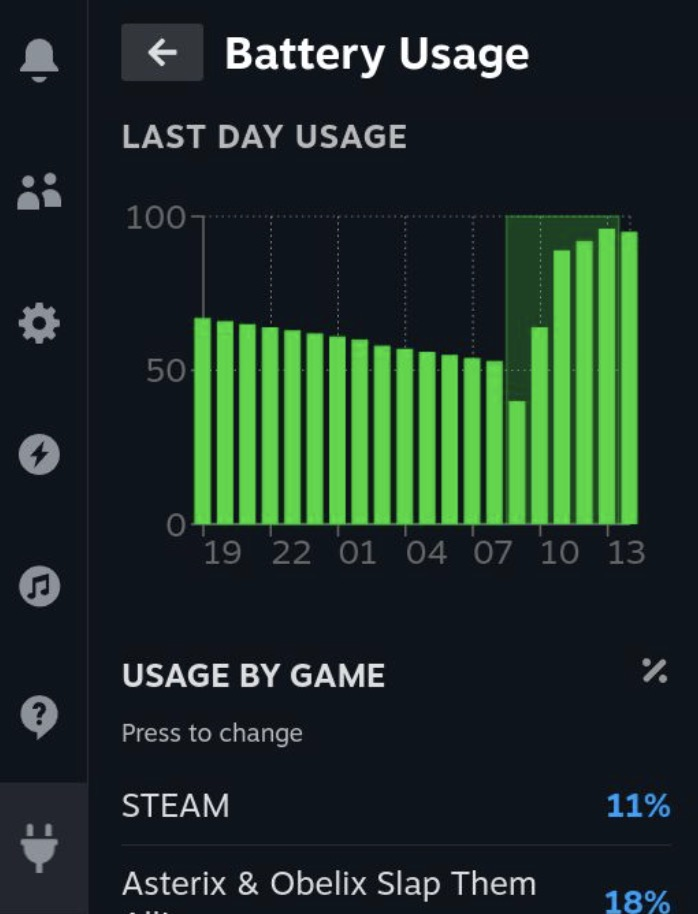
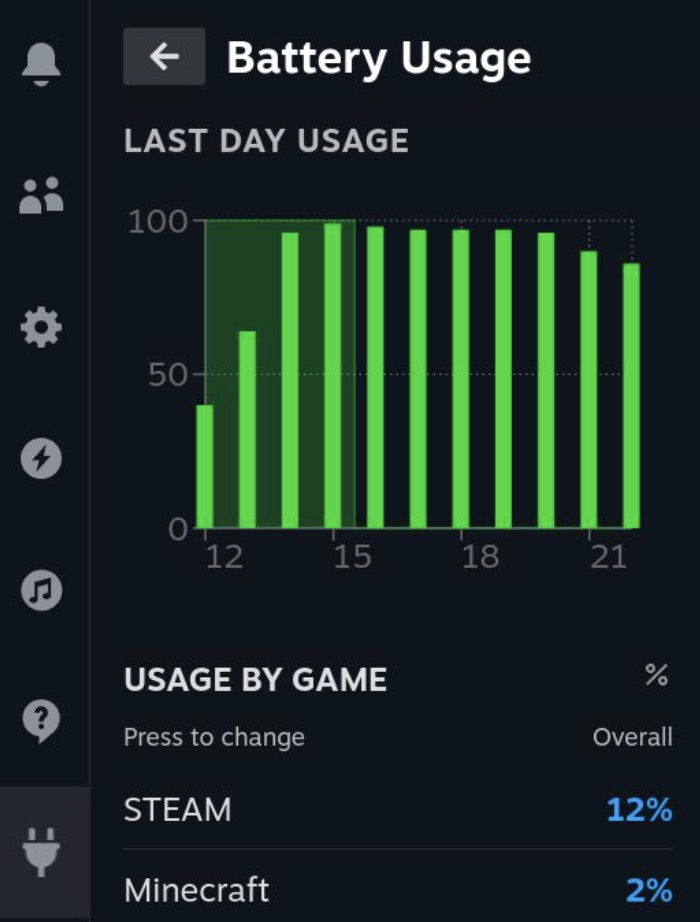
feat: replace hours with avg watts

diff --git a/src/containers/DailyUsageGraph.tsx b/src/containers/DailyUsageGraph.tsx
@@ -7,9 +7,10 @@ import {
   ServerAPI,
   Spinner,
 } from "decky-frontend-lib";
-import { BLUE_COLOR } from "../styles";
-import { FaHourglassHalf, FaInfoCircle, FaPercentage } from "react-icons/fa";
+import { BLUE_COLOR, unstyled_p } from "../styles";
+import { MdElectricBolt, MdPercent } from "react-icons/md";
 import { VerticalContainer } from "../components/VerticalContainer";
+import { HorizontalContainer } from "../components/HorizontalContainer";
 
 type Props = {
   serverApi: ServerAPI;
@@ -19,12 +20,11 @@ export const DailyUsageGraph = ({ serverApi }: Props) => {
   const [data, setData] = useState<{
     battery_usage: { hour: string; capacity: number; charging: number }[];
     games_stats: {
-      games: { game_name: string; percentage: number; hours: string }[];
-      suspended: { percentage: number; hours: string };
+      games: { game_name: string; percentage: number; watts: number }[];
     };
   }>();
   const [loading, setLoading] = useState(true);
-  const [showHours, setShowHours] = useState(false);
+  const [showWatts, setShowWatts] = useState(false);
 
   useEffect(() => {
     // console.log("mount get data");
@@ -35,8 +35,7 @@ export const DailyUsageGraph = ({ serverApi }: Props) => {
         {
           battery_usage: { hour: string; capacity: number; charging: number }[];
           games_stats: {
-            games: { game_name: string; percentage: number; hours: string }[];
-            suspended: { percentage: number; hours: string };
+            games: { game_name: string; percentage: number; watts: number }[];
           };
         }
       >("hourly_statistics", {});
@@ -82,13 +81,20 @@ export const DailyUsageGraph = ({ serverApi }: Props) => {
             <PanelSectionRow>
               <Field
                 bottomSeparator="none"
-                description="Press to change"
+                description={
+                  <HorizontalContainer>
+                    <p style={unstyled_p}>Press to change</p>
+                    <p style={unstyled_p}>
+                      {showWatts ? "Average" : "Overall"}
+                    </p>
+                  </HorizontalContainer>
+                }
                 label={<div style={{ fontWeight: 600 }}>USAGE BY GAME</div>}
                 onClick={() => {
-                  setShowHours(!showHours);
+                  setShowWatts(!showWatts);
                 }}
               >
-                {showHours ? <FaHourglassHalf /> : <FaPercentage />}
+                {showWatts ? <MdElectricBolt /> : <MdPercent />}
               </Field>
             </PanelSectionRow>
             {data.games_stats.games.map((item) => (
@@ -97,34 +103,36 @@ export const DailyUsageGraph = ({ serverApi }: Props) => {
                   label={item.game_name}
                   inlineWrap="keep-inline"
                   onClick={() => {
-                    setShowHours(!showHours);
+                    setShowWatts(!showWatts);
                   }}
                 >
-                  <div style={{ fontWeight: 600, color: BLUE_COLOR }}>
-                    {showHours ? item.hours : item.percentage + "%"}
-                  </div>
+                  <p
+                    style={{
+                      ...unstyled_p,
+                      fontWeight: 600,
+                      color: BLUE_COLOR,
+                    }}
+                  >
+                    {showWatts ? (
+                      <>
+                        {"~" + item.watts}
+                        <span
+                          style={{ fontSize: "10px", verticalAlign: "top" }}
+                        >
+                          W
+                        </span>
+                      </>
+                    ) : (
+                      item.percentage + "%"
+                    )}
+                  </p>
                 </Field>
               </PanelSectionRow>
             ))}
-            {showHours && (
-              <div style={{ fontWeight: 600 }}>
-                <PanelSectionRow>
-                  <Field
-                    inlineWrap="keep-inline"
-                    label="SUSPENDED"
-                    onClick={() => {
-                      setShowHours(!showHours);
-                    }}
-                  >
-                    {data.games_stats.suspended.hours}
-                  </Field>
-                </PanelSectionRow>
-              </div>
-            )}
-            {!showHours && data.games_stats.games.length === 0 && (
+            {!showWatts && data.games_stats.games.length === 0 && (
               <VerticalContainer>
                 <div style={{ fontSize: "14px", textAlign: "center" }}>
-                  NO GAMES PLAYED ON BATTERY
+                  NO BATTERY USAGE DETECTED
                 </div>
               </VerticalContainer>
             )}

diff --git a/src/styles.tsx b/src/styles.tsx
@@ -22,7 +22,13 @@ export const HorizontalContainerCSS = {
     display: "flex",
     flexDirection: "row",
     justifyContent: "space-between",
+    alignItems: "center",
   } as CSSProperties,
+};
+
+export const unstyled_p: CSSProperties = {
+  margin: 0,
+  padding: 0,
 };
 
 export const focus_panel_no_padding: CSSProperties = {

diff --git a/defaults/python/statistics.py b/defaults/python/statistics.py
@@ -1,13 +1,12 @@
 from dataclasses import dataclass
 from datetime import datetime, timedelta
+from math import floor
 from python.db.dao import Dao
 from typing import List
 from collections import defaultdict
 
 from python.helpers import (
-    calculate_adjusted_percentages,
     insert_element,
-    minutes_to_hours_string,
 )
 
 
@@ -21,13 +20,13 @@ class UsageItem:
 class GameItem:
     game_name: str
     percentage: int
-    hours: str
+    watts: float
 
 
 @dataclass
 class Suspended:
     percentage: int
-    hours: str
+    watts: float
 
 
 @dataclass
@@ -100,20 +99,32 @@ class Statistics:
                             entry.capacity
                         )
                         games_pecentages[entry.game_name]["last_pos"] = i
+
+                        games_pecentages[entry.game_name]["amount"] += 1
+
+                        games_pecentages[entry.game_name]["total_power"] += entry.power
                 else:
                     games_pecentages[entry.game_name] = {
                         "last_charge": entry.capacity,
                         "total_charge": 0,
                         "last_pos": i,
+                        "amount": 0,
+                        "total_power": 0,
                     }
 
             data_by_hour[hour].append(entry)
 
         aggregated_data = []
+        print(games_pecentages)
+
         for hour, entries in data_by_hour.items():
             last_entry = min(entries, key=lambda x: x.capacity)
             aggregated_data.append(
-                {"hour": hour, "capacity": last_entry.capacity, "charging": 0}
+                {
+                    "hour": hour,
+                    "capacity": last_entry.capacity,
+                    "charging": 0,
+                }
             )
         i = 0
 
@@ -170,92 +181,23 @@ class Statistics:
             if aggregated_data[-2]["capacity"] < aggregated_data[-1]["capacity"]:
                 aggregated_data[-1]["charging"] = 100
 
-        game_entry_count = defaultdict(int)
+        games_list = []
+        for item in games_pecentages:
+            if games_pecentages[item]["total_charge"] > 0:
+                watts = (games_pecentages[item]["total_power"] / 10) / games_pecentages[
+                    item
+                ]["amount"]
 
-        # Step 2: Convert date_time to datetime objects
-        formatted_data = [
-            (datetime.strptime(entry.date_time, "%Y-%m-%d %H %M"), entry.game_name)
-            for entry in data
-        ]
-
-        # print(formatted_data)
-
-        filled_data = []
-
-        start_time = min(dt for dt, _ in formatted_data)
-        end_time = max(dt for dt, _ in formatted_data)
-
-        current_time = start_time
-        formatted_data_dict = dict(
-            formatted_data
-        )  # Convert list to dictionary for easy lookup
-
-        while current_time <= end_time:
-            if current_time in formatted_data_dict:
-                filled_data.append(
-                    {
-                        "date_time": current_time.strftime("%Y-%m-%d %H %M"),
-                        "game_name": formatted_data_dict[current_time],
-                    }
-                )
-            else:
-                filled_data.append(
-                    {
-                        "date_time": current_time.strftime("%Y-%m-%d %H %M"),
-                        "game_name": "SUSPENDED",
-                    }
-                )
-            current_time += timedelta(minutes=1)
-
-        for entry in filled_data:
-            game_entry_count[entry["game_name"]] += 1
-
-        total_entries = len(filled_data)
-
-        if total_entries > 0:
-            game_entry_percentage = {
-                game: (count / total_entries) * 100
-                for game, count in game_entry_count.items()
-            }
-
-            # Drop insignificant values
-            threshold = sum(game_entry_percentage.values()) / 100
-
-            game_entry_percentage = {
-                key: value
-                for key, value in game_entry_percentage.items()
-                if value >= threshold
-            }
-
-            game_entry_count = {
-                key: value
-                for key, value in game_entry_count.items()
-                if key in game_entry_percentage
-            }
-
-            games_pecentages = {
-                key: value
-                for key, value in games_pecentages.items()
-                if key in game_entry_percentage
-            }
-
-            suspended_hours = minutes_to_hours_string(
-                game_entry_count.pop("SUSPENDED", 0)
-            )
-
-            games_list = []
-            for item in game_entry_count:
                 games_list.append(
                     {
                         "game_name": item,
                         "percentage": games_pecentages[item]["total_charge"],
-                        "hours": minutes_to_hours_string(game_entry_count[item]),
+                        "watts": floor(watts * 10) / 10,
                     }
                 )
-            self.games_stats = {
-                "games": games_list,
-                "suspended": {"percentage": 0, "hours": suspended_hours},
-            }
+        self.games_stats = {
+            "games": games_list,
+        }
 
         self.stored_statistics = aggregated_data
 

diff --git a/defaults/python/tests/main.test.py b/defaults/python/tests/main.test.py
@@ -76,18 +76,7 @@ class Plugin:
             print(result)
 
             for game in result["games_stats"]["games"]:
-                print(f"{game['game_name']} - {game['percentage']}% - {game["hours"]}")
-
-            print(
-                f"SUSPENDED - {result["games_stats"]["suspended"]["percentage"]}% - {result["games_stats"]["suspended"]["hours"]}"
-            )
-
-            total_percentage = (
-                sum(game["percentage"] for game in result["games_stats"]["games"])
-                + result["games_stats"]["suspended"]["percentage"]
-            )
-
-            print(f"TOTAL - {total_percentage}")
+                print(f"{game['game_name']} - {game['percentage']}% - {game["watts"]}")
 
             return result
         except Exception as e:
